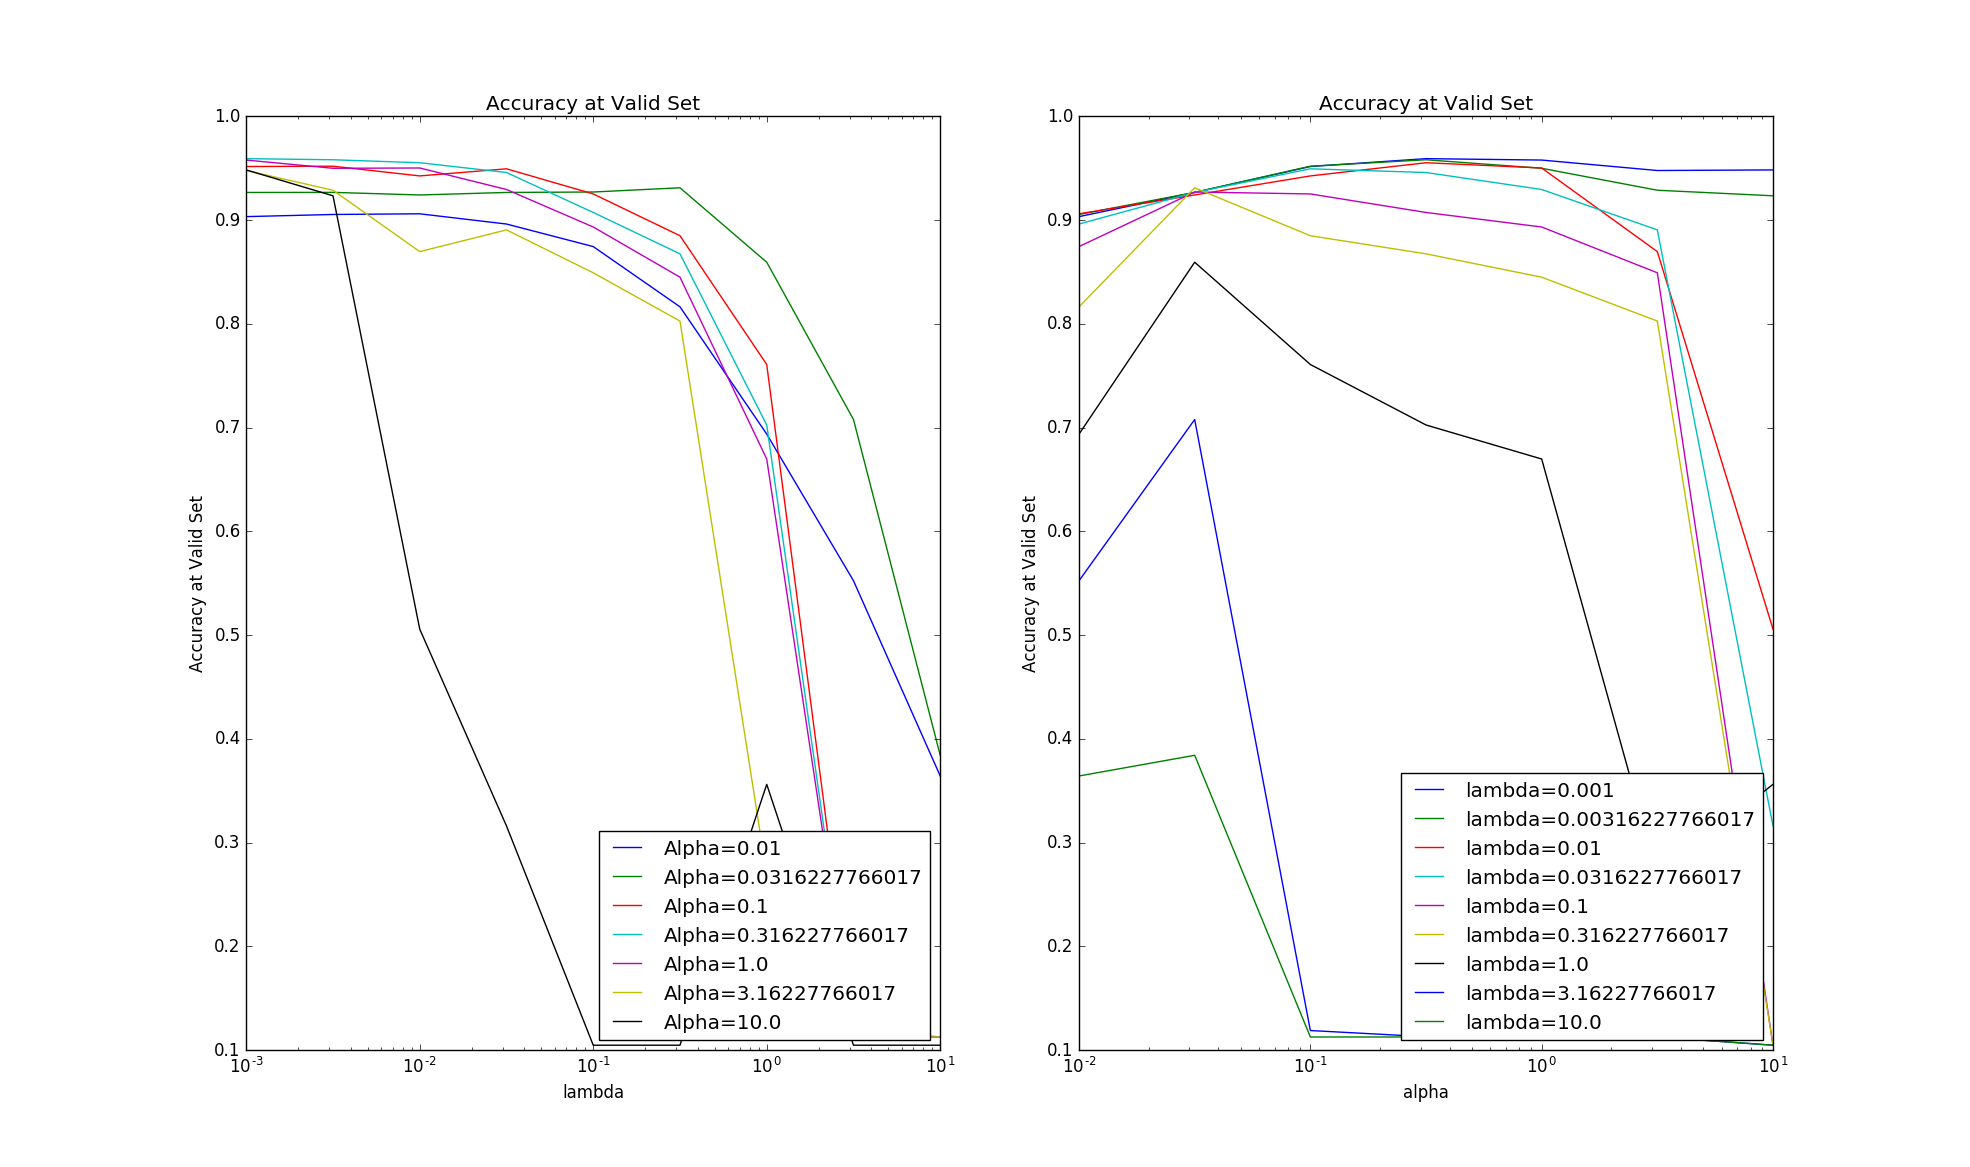
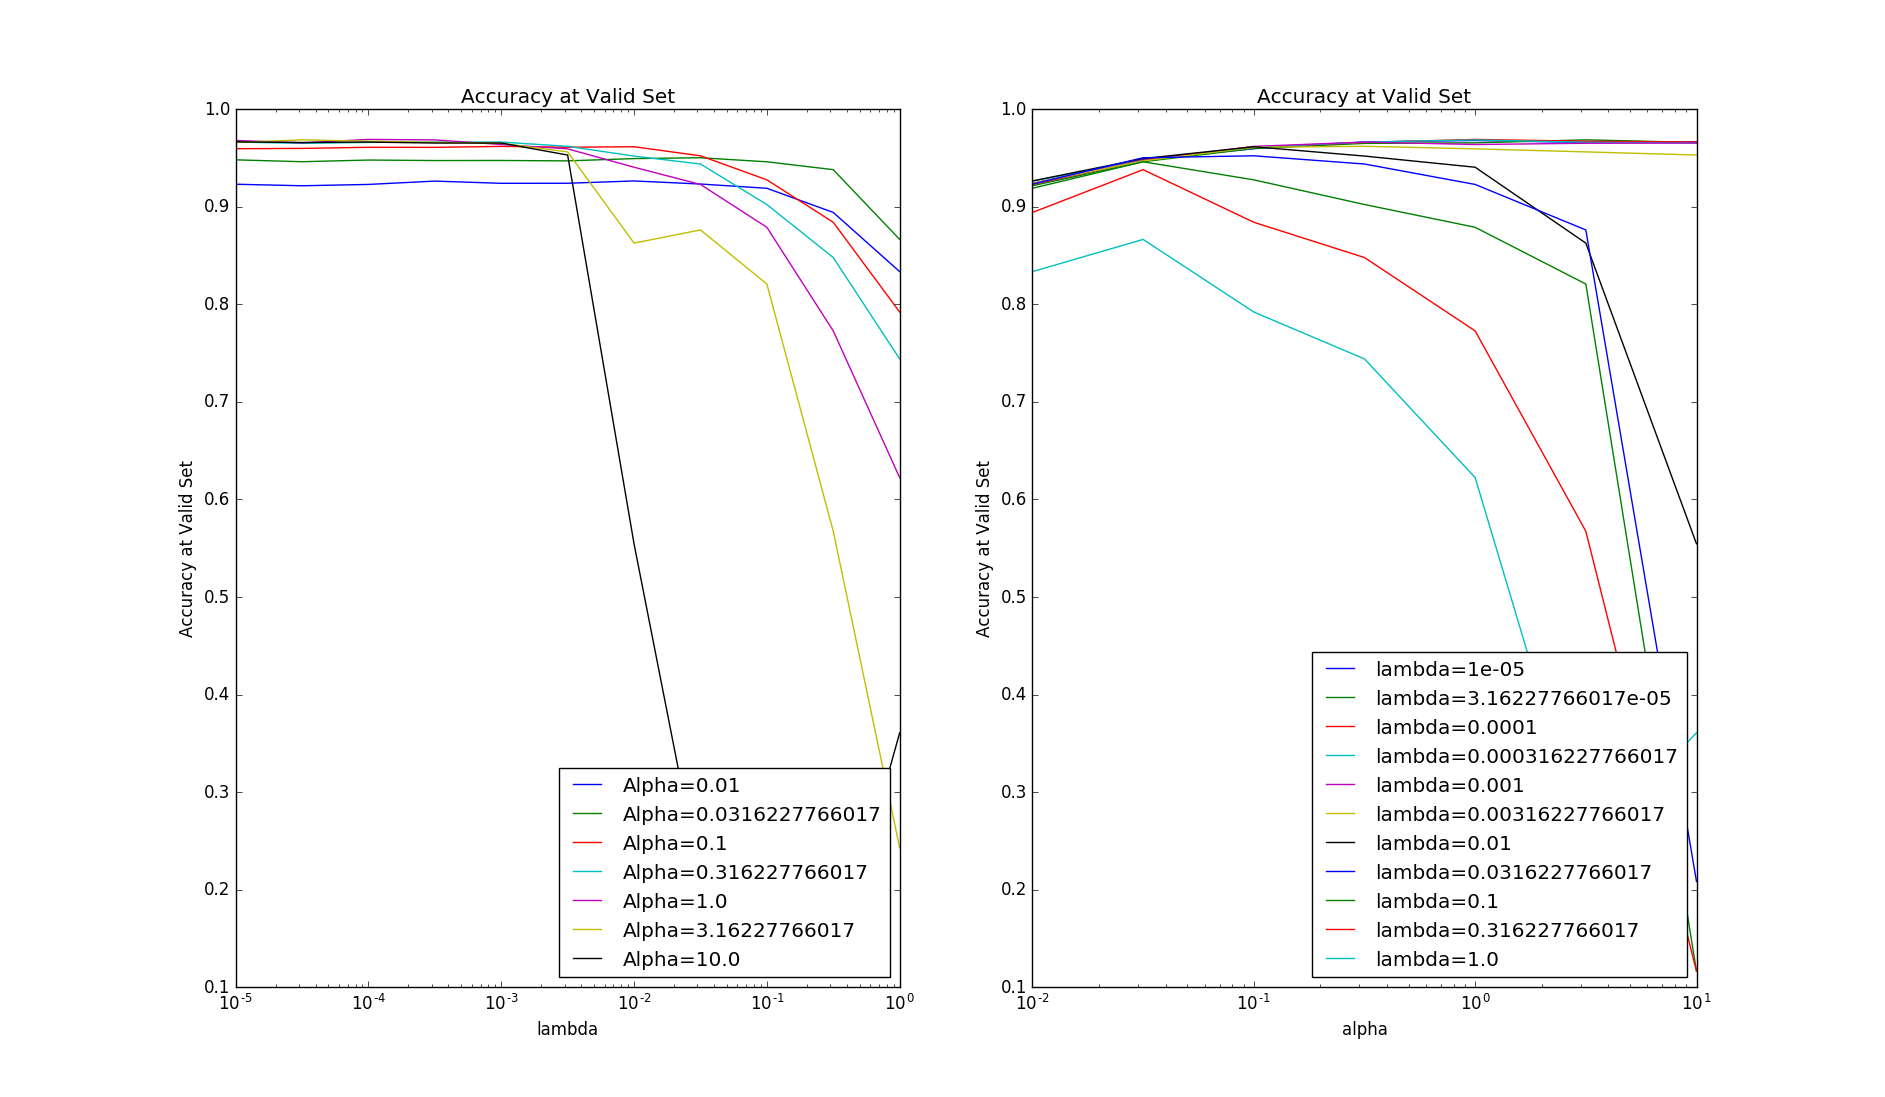
Added dropout

diff --git a/MNIST/TensorFlow_DeepLearning.py b/MNIST/TensorFlow_DeepLearning.py
@@ -66,6 +66,7 @@ if __name__ == '__main__':
 		_tf_alpha = tf.placeholder(tf.float32)
 
 		_hidden_hypo = tf.nn.relu(tf.matmul(_tf_X_train, _weights1) + _biases1)
+		_hidden_hypo = tf.nn.dropout(_hidden_hypo,0.5)
 		_logits = tf.matmul(_hidden_hypo, _weights2) + _biases2
 		_loss = tf.reduce_mean(tf.nn.softmax_cross_entropy_with_logits(_logits, _tf_y_train))+ 0.5 * _tf_lambda * (tf.nn.l2_loss(_weights1) + tf.nn.l2_loss(_weights2))
 
@@ -83,7 +84,7 @@ if __name__ == '__main__':
 	print 'Start Learning'
 	_time_start = time.time()
 	_alpha_list = np.logspace(-2,1,7)
-	_lambda_list = np.logspace(-3,1,9)
+	_lambda_list = np.logspace(-5,0,11)
 	_scores = np.ndarray( (len(_alpha_list), len(_lambda_list) ), dtype=float)
 	with tf.Session(graph=_graph) as _session:
 		_best_accuracy_valid = None
@@ -93,7 +94,7 @@ if __name__ == '__main__':
 			for _lam_index, _lambda in enumerate(_lambda_list):
 				tf.initialize_all_variables().run()
 				for _step in range(_num_steps):
-					_delta=100.0
+					#_delta=100.0
 					_offset = (_step * _batch_size) % (_num_train_dataset - _batch_size)
 					_batch_data		= _X_train[_offset:(_offset + _batch_size), :]
 					_batch_labels	= _y_train[_offset:(_offset + _batch_size)]
@@ -102,11 +103,11 @@ if __name__ == '__main__':
 					if (_step % 500 == 0):
 						_accuracy_valid = accuracy(_valid_prediction.eval(), _y_valid)
 						if _best_accuracy_valid is None or _accuracy_valid>_best_accuracy_valid:
-							if _best_accuracy_valid is not None: _delta = _accuracy_valid - _best_accuracy_valid;
+							#if _best_accuracy_valid is not None: _delta = _accuracy_valid - _best_accuracy_valid;
 							_best_accuracy_valid = _accuracy_valid
 							_best_alpha = _alpha
 							_best_lambda = _lambda
-							if _delta < 0.001: break;
+							#if _delta < 0.001: break;
 				_accuracy_valid = accuracy(_valid_prediction.eval(), _y_valid)
 				_scores[_al_index, _lam_index] = _accuracy_valid
 				print 'alpha='+str(_alpha)+',\tlambda='+str(_lambda)+',\tValidAccuracy='+str(_accuracy_valid)

diff --git a/MNIST/README.md b/MNIST/README.md
@@ -1,9 +1,9 @@
 Copyright (C) 2016 Daisuke Hashimoto. All Rights Reserved.
 # MNIST
 ## Summary
-* Neural Network (3 layer, GPU)
-  * time = 35min (GPU)
-  * Error Rate = 0.0391428571429
+* Neural Network (3 layer)
+  * time = 48min (GPU)
+  * Error Rate = 0.0331428571429
 * SVM Gaussian Kernel (RBF) (Batch Analysis)
   * time = 81min
   * Error Rate = 0.0575967741935
@@ -24,18 +24,19 @@ Copyright (C) 2016 Daisuke Hashimoto. All Rights Reserved.
 * number of training sets: 14000
 * number of test sets: 14000
 * number of hidden node: 1024
+* dropout: 0.5
 * Grid Search
   * Learning Rate: 7 patterns
-  * Lambda: 9 patterns
+  * Lambda: 11 patterns
 
 ### Results
 * Validation Results
-  * Time of training(GPU) = 2106sec (35min)
-  * Best Score=0.961857142857
-  * Best Parm={'alpha':0.316227766017,	'lambda':0.001}
+  * Time of training(GPU) = 2868sec (47min)
+  * Best Score=0.969071428571
+  * Best Parm={'alpha':1.0,	'lambda':0.0001
 * Test Results
-  * Accuracy=0.960857142857
-  * Error Rate=0.0391428571429
+  * Accuracy=0.966857142857
+  * Error Rate=0.0331428571429
 
 ![Accuracy 3-layer deep learning](TensorFlow_DeepLearning.png)
 
